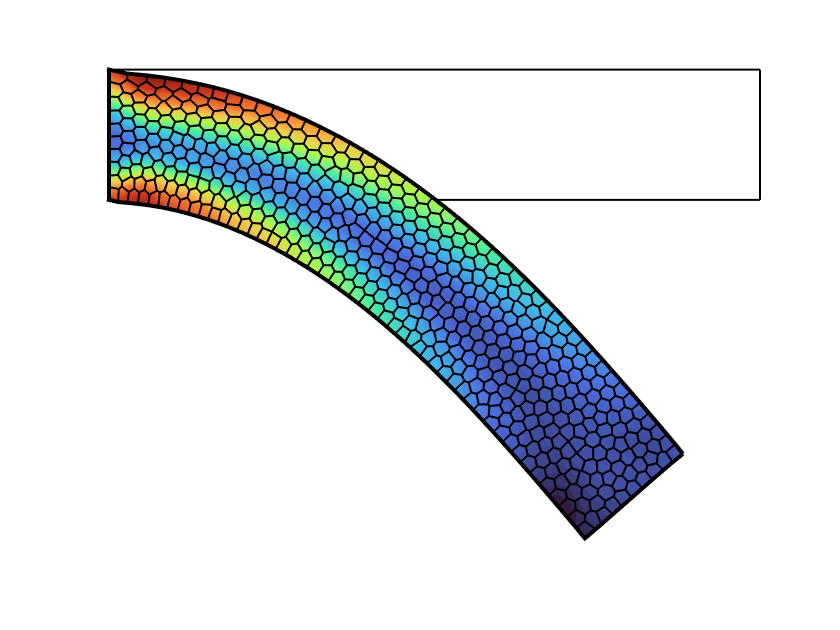
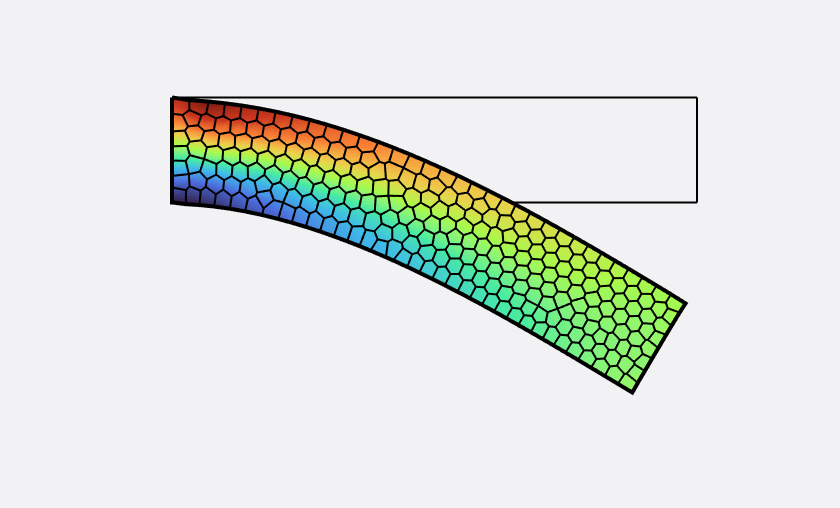
push

Changed region(s): [[0.1238, 0.0886, 0.8976, 0.8563]]

diff --git a/scripts/fem/fem_beam.m b/scripts/fem/fem_beam.m
@@ -3,21 +3,22 @@ clr;
 sdf = @(x) dRectangle(x,0,5,0,1);
 
 msh = Mesh(sdf);
-msh = msh.set('BdBox',[0,5,0,1],'NElem',500);
+msh = msh.set('BdBox',[0,5,0,1],'NElem',250);
       
 msh = msh.generateMesh;
 
 %% add boundary conditions 
 fem = Fem(msh);
-fem = fem.set('TimeStep',1/15);
+fem = fem.set('TimeStep',1/5);
 
 %% add constraint
 fem = fem.AddConstraint('Support',fem.FindNodes('Left'),[1,1]);
-fem = fem.AddConstraint('Load',fem.FindNodes('Right'),[0,-1e-3]);
-fem = fem.AddConstraint('Output',fem.FindNodes('Bottom'),[0,1e-3]);
+fem = fem.AddConstraint('Load',fem.FindNodes('Right'),[1e-3,-1e-3]);
+fem = fem.AddConstraint('Output',fem.FindNodes('Bottom'),[1e-3,1e-3]);
 
 %% select material
 fem.Material = Ecoflex0030;
 
 %% solving
 fem.solve();
+fem.show('Exx')
